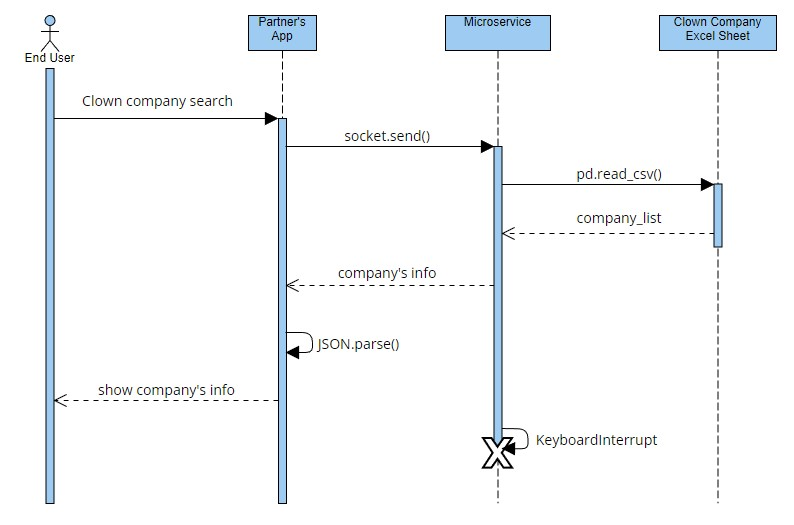
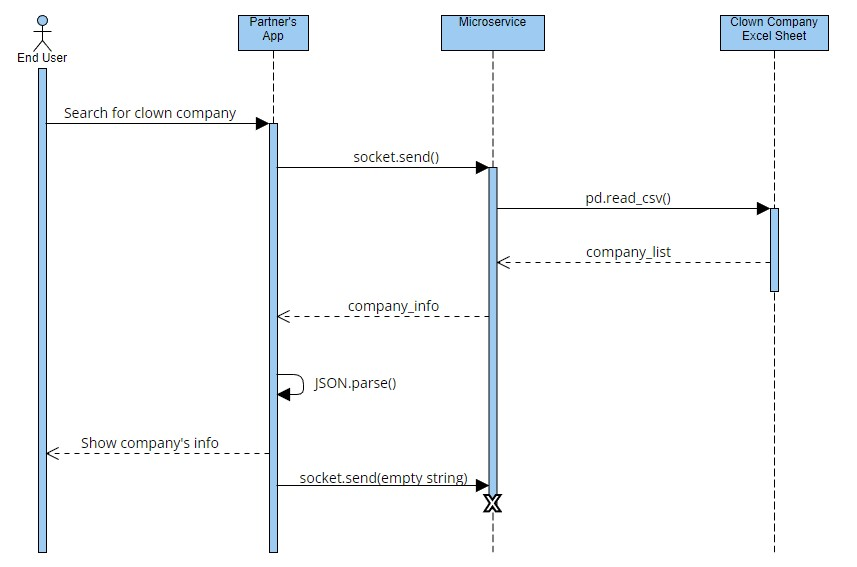
Updated sequence diagram

diff --git a/README.md b/README.md
@@ -49,10 +49,10 @@ This project is a microservice that returns information on clown companies in an
     * Example:
         ```
         {
-            "Name": "Starlights", 
-            "Price": "55", 
-            "Min Hours": "2", 
-            "Max Hours": "8"
+            "name": "Starlights", 
+            "price": "55", 
+            "minHours": "2", 
+            "maxHours": "8"
         }
         ```
 * UML Sequence Diagram
